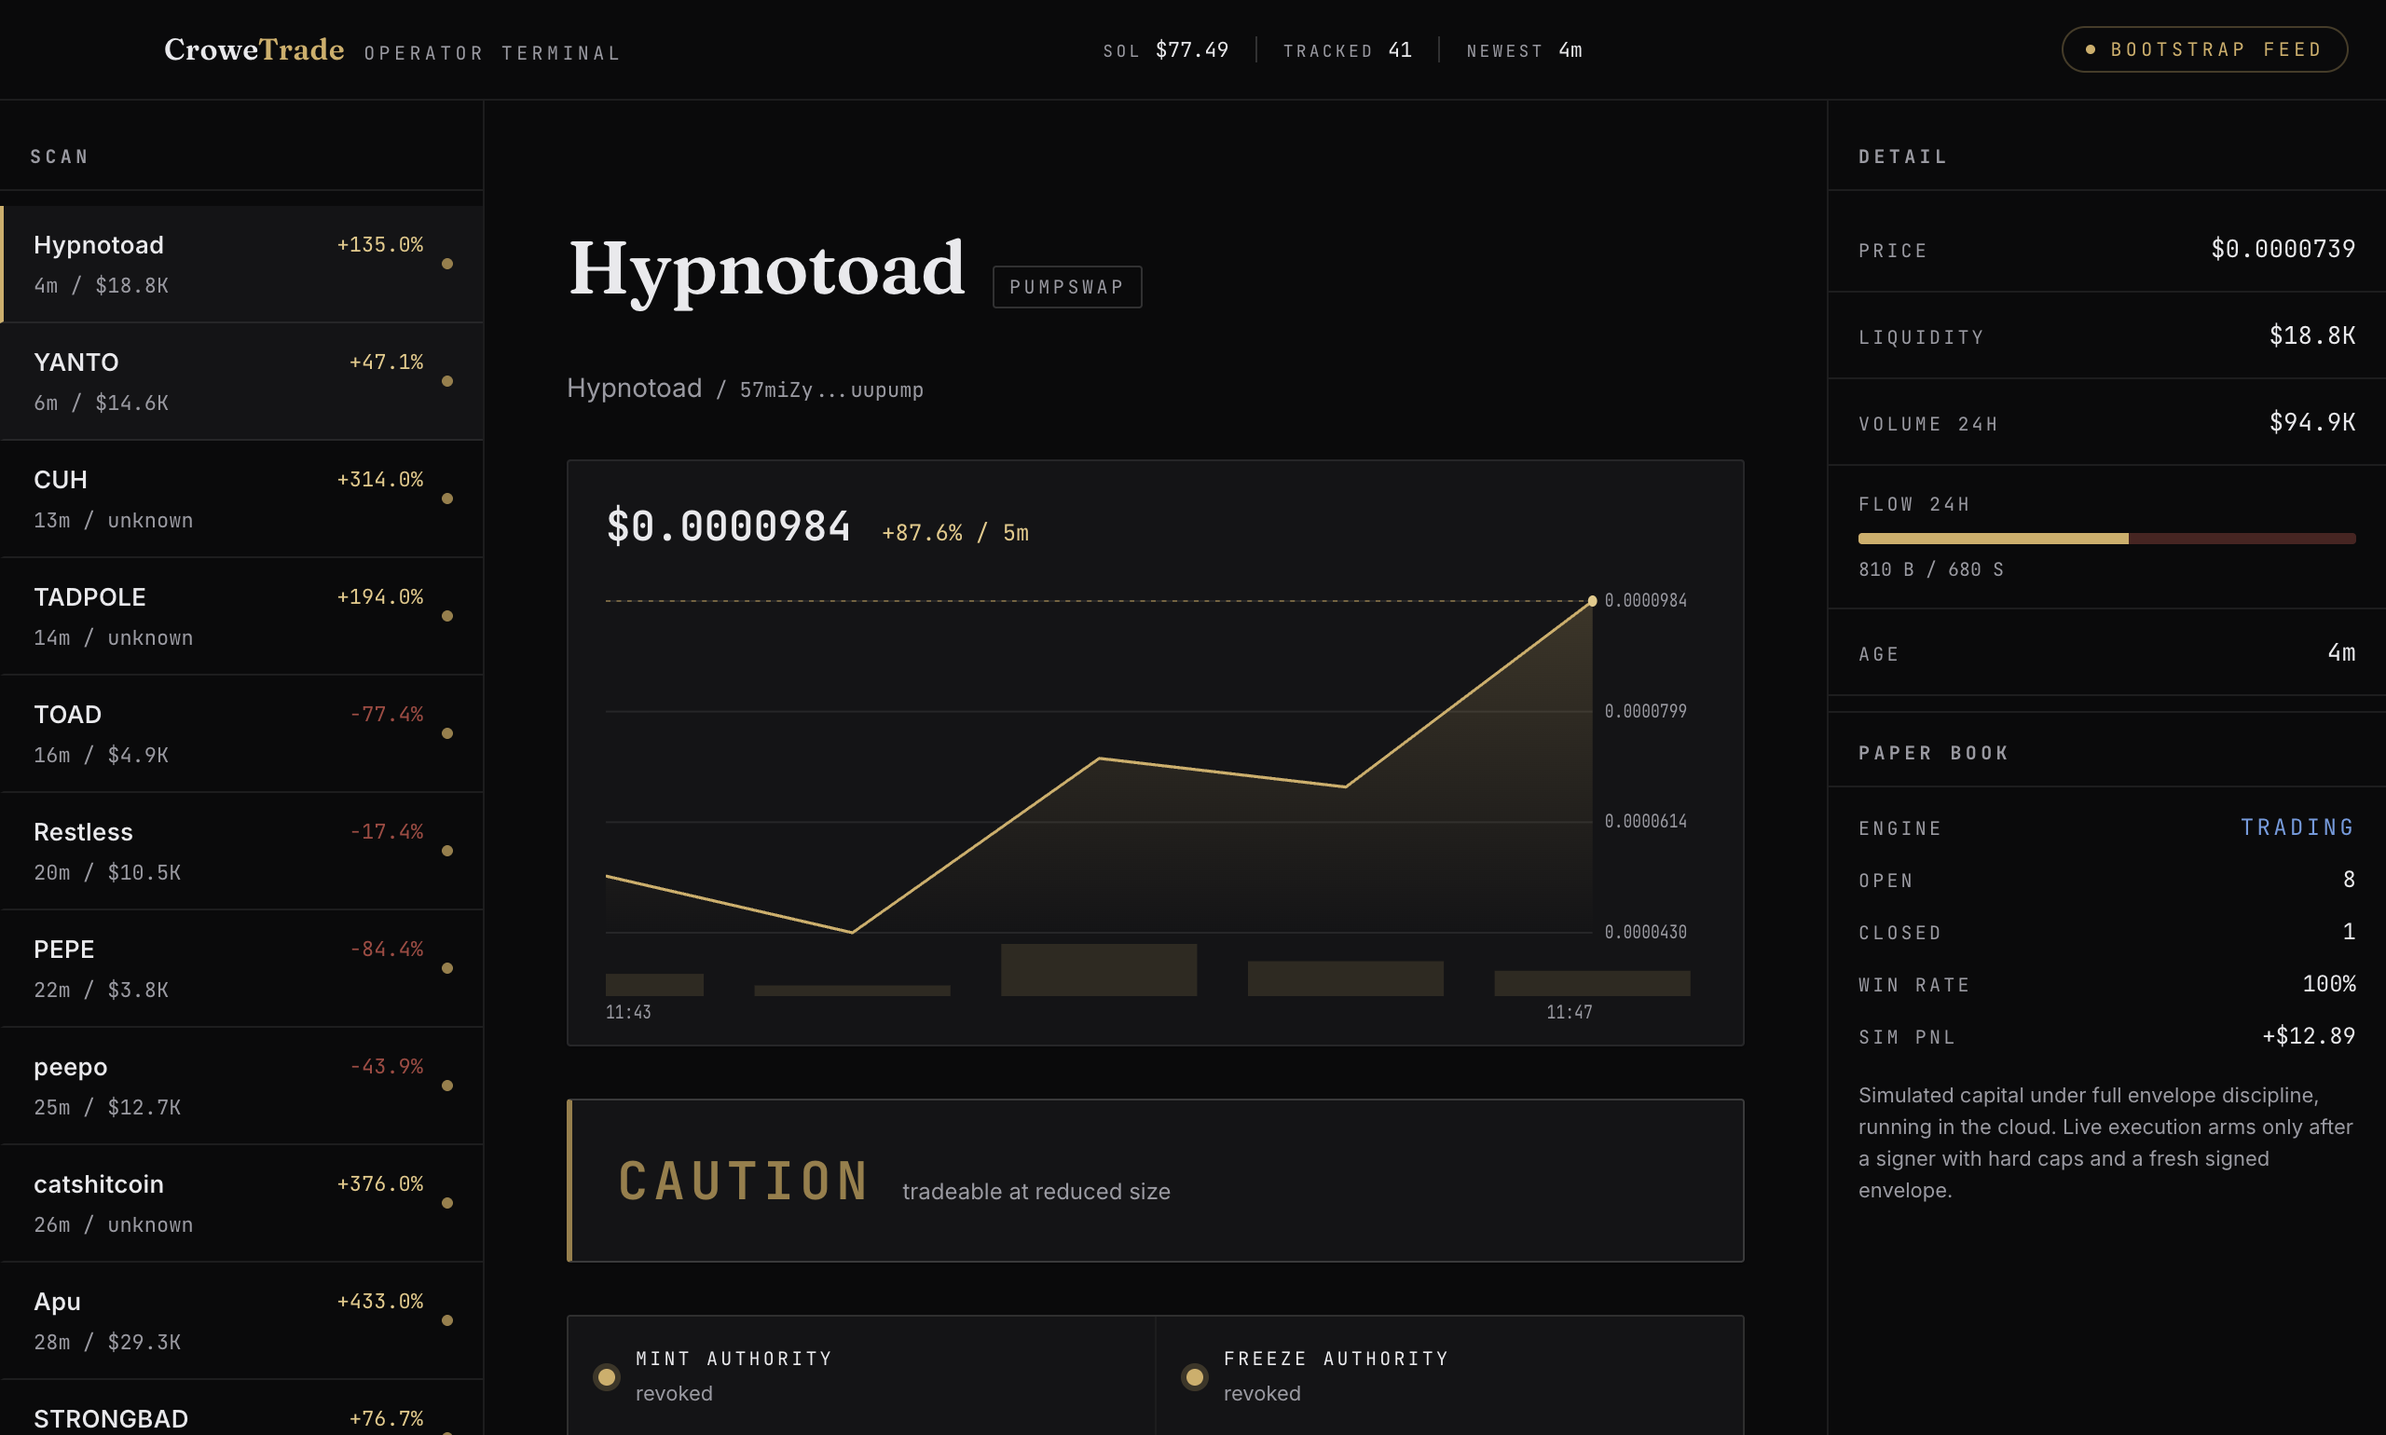
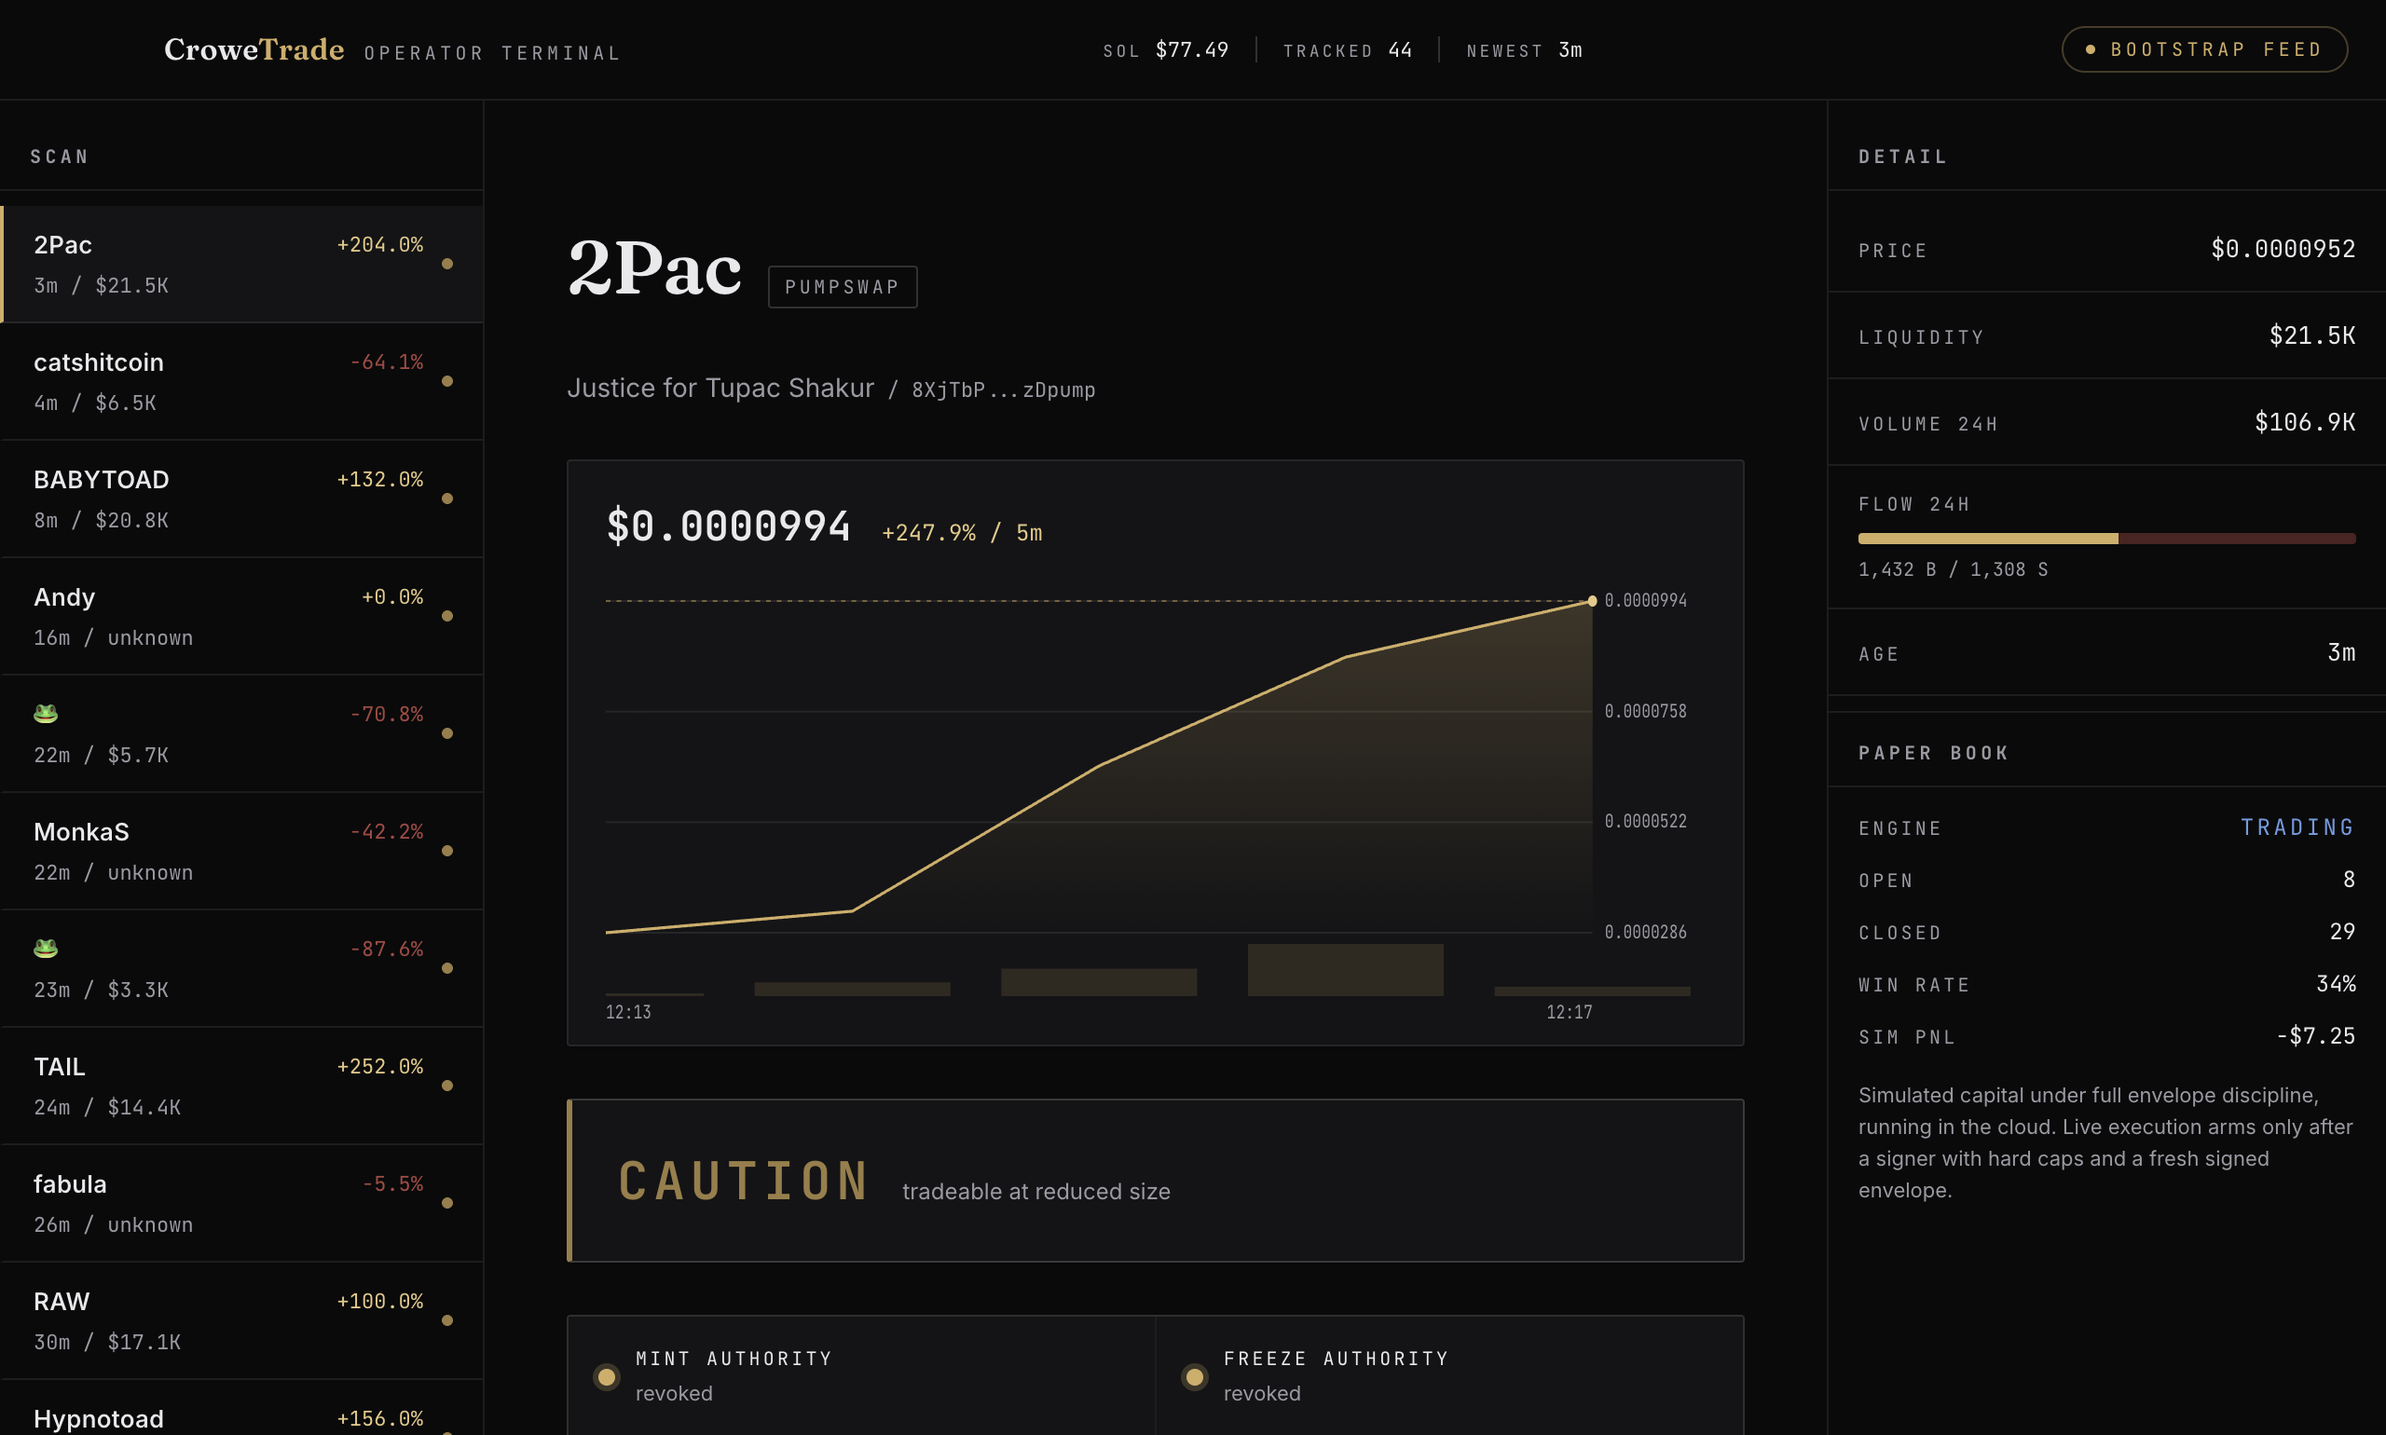
Price paper fills from real Jupiter routes, not an invented slippage model
Measured the model against reality and it was wrong by ~20x: quoting 0.25 SOL
into a held token ($18.8K liquidity) returns 2.10% real price impact where the
model predicted 0.10%. Applied to both entry and exit of every position, that
flatters the record on every fill, which is the one defect a track record
cannot survive.

Entries and exits now price off live Jupiter quotes -- the same routes live
execution will take. Quoting needs no wallet, no funds and no signature, so
the paper phase can be honest at zero risk.

- exits value proceeds from what the route actually returns for our token
  amount, not mark price times quantity; on a thin pool that gap IS the result
- no route means no entry: a token we could not buy is not a position
- a safety-exit with no route marks to zero rather than inventing liquidity
- real price impact and route labels ship to PostHog for TCA
- pre-existing rows tagged priced_by='model' and excluded from headline stats
  rather than deleted; the mistake stays part of the record

Claude-Session: https://claude.ai/code/session_01GLajnjPGngHvCo8vagnZPV

diff --git a/engine/src/ledger.ts b/engine/src/ledger.ts
@@ -18,11 +18,15 @@ import {
   fetchPairsForMints,
   type Candidate,
 } from "../../shared/dexscreener.js"
-import { fetchMintFacts } from "../../shared/solana.js"
+import { fetchMintFacts, type MintFacts } from "../../shared/solana.js"
 import { evaluateGates, combineVerdict, type Verdict } from "../../shared/gates.js"
 import { PAPER_POLICY, policyHash } from "../../shared/policy.js"
-import { decideEntries, decideExits, slippageBps, type OpenPosition } from "./strategy.js"
+import { decideEntries, decideExits, type OpenPosition } from "./strategy.js"
+import { quoteBuy, quoteSell, LAMPORTS_PER_SOL } from "./execution/jupiter.js"
 import { capture } from "./posthog.js"
+
+/** Slippage tolerance requested on every quote, entry and exit. */
+const SLIPPAGE_BPS = 300
 
 interface PositionRow {
   [key: string]: string | number | null
@@ -79,6 +83,15 @@ export class Ledger extends DurableObject<Env> {
           value TEXT NOT NULL
         );
       `)
+      // Rows written before 2026-08-08 were priced by an invented slippage
+      // model later measured wrong by ~20x. They are TAGGED rather than
+      // deleted: the mistake is part of the record, and the stats below simply
+      // stop counting them so the headline number reflects real routes only.
+      try {
+        sql.exec("ALTER TABLE positions ADD COLUMN priced_by TEXT NOT NULL DEFAULT 'model'")
+      } catch {
+        // Column already present; nothing to migrate.
+      }
       this.schemaReady = true
     }
     return sql
@@ -120,25 +133,57 @@ export class Ledger extends DurableObject<Env> {
     }))
   }
 
-  private closePosition(p: OpenPosition, exitPriceUsd: number, reason: string, now: number): void {
-    // Sell-side slippage worsens the exit the same way entry slippage worsened
-    // the entry. Exit liquidity is unknown here, so the model reuses the entry
-    // notional as the denominator proxy; pessimistic is the only safe direction.
-    const slip = slippageBps(p.sizeUsd, p.sizeUsd * 50) / 10_000
-    const effective = exitPriceUsd * (1 - slip)
-    const proceeds = p.tokenAmount * effective
+  /**
+   * Closes at a REAL sell quote when one exists.
+   *
+   * proceedsUsd comes from lamports Jupiter says the route actually returns for
+   * our exact token amount, not from mark price times quantity. Mark price is
+   * what the last trade printed; it is not what we can get out at, and on a
+   * thin pool the gap between the two is the entire result.
+   */
+  private async closePosition(
+    p: OpenPosition,
+    exitPriceUsd: number,
+    reason: string,
+    now: number,
+    solUsd: number,
+  ): Promise<void> {
+    const decimals = Number(this.metaGet(`decimals:${p.mint}`) ?? "6")
+    const baseUnits = BigInt(Math.floor(p.tokenAmount * 10 ** decimals))
+
+    let proceeds: number
+    let impact: number | null = null
+    let route: string | null = null
+
+    const q = baseUnits > 0n ? await quoteSell(p.mint, baseUnits, SLIPPAGE_BPS) : null
+    if (q && solUsd > 0) {
+      proceeds = (Number(q.outAmount) / LAMPORTS_PER_SOL) * solUsd
+      impact = q.priceImpactPct
+      route = q.route
+    } else {
+      // No route: the position is effectively unexitable right now. Marking it
+      // at mark price would invent liquidity that does not exist, so it is
+      // marked to ZERO. That is the honest floor, and it is what a rug looks
+      // like from the inside.
+      proceeds = reason === "safety-exit" ? 0 : p.tokenAmount * exitPriceUsd * 0.5
+    }
+
     const pnlUsd = proceeds - p.sizeUsd
     const pnlPct = (pnlUsd / p.sizeUsd) * 100
+    const effective = p.tokenAmount > 0 ? proceeds / p.tokenAmount : 0
     this.sql().exec(
       `UPDATE positions SET closed_at = ?, exit_price = ?, exit_reason = ?, pnl_usd = ?, pnl_pct = ?
        WHERE id = ?`,
       now, effective, reason, pnlUsd, pnlPct, p.id,
     )
-    this.event("exit", { id: p.id, symbol: p.symbol, reason, pnlUsd, pnlPct })
+    this.event("exit", { id: p.id, symbol: p.symbol, reason, pnlUsd, pnlPct, impact, route })
     capture(this.env, this.ctx, "paper_exit", {
       symbol: p.symbol, mint: p.mint, reason,
       pnl_usd: pnlUsd, pnl_pct: pnlPct, held_minutes: (now - p.openedAt) / 60_000,
       policy_hash: p.policyHash,
+      // Real measured impact, so TCA can compare quoted cost to what the
+      // strategy assumed. This is the number the old model got wrong by 20x.
+      exit_price_impact_pct: impact, exit_route: route, routed: q !== null,
     })
   }
 
@@ -181,13 +226,17 @@ export class Ledger extends DurableObject<Env> {
 
     // One RPC batch resolves authorities for the whole universe this tick.
     const facts = await fetchMintFacts(everything.map((c) => c.mint), signal).catch(
-      () => new Map<string, { mintAuthority: string | null; freezeAuthority: string | null }>(),
+      () => new Map<string, MintFacts>(),
     )
     for (const c of everything) {
       const f = facts.get(c.mint)
       if (f) {
         c.snapshot.mintAuthority = f.mintAuthority
         c.snapshot.freezeAuthority = f.freezeAuthority
+        // Decimals are needed later to convert a held float amount back into
+        // base units for the sell quote, and the mint may be gone from
+        // discovery by then, so persist it at first sight.
+        this.metaSet(`decimals:${c.mint}`, String(f.decimals))
       }
     }
 
@@ -215,13 +264,13 @@ export class Ledger extends DurableObject<Env> {
         // A veto with no fresh price exits at entry price as the least-bad
         // honest option; the event records that the mark was stale.
         const px = cur?.priceUsd ?? p.entryPriceUsd
-        this.closePosition(p, px, "veto", now)
+        await this.closePosition(p, px, "veto", now, solUsd)
         exited += 1
       }
     }
     const stillOpen = this.openPositions()
     for (const d of decideExits(stillOpen, prices, policy, now)) {
-      this.closePosition(d.position, d.exitPriceUsd, d.reason, now)
+      await this.closePosition(d.position, d.exitPriceUsd, d.reason, now, solUsd)
       exited += 1
     }
 
@@ -234,21 +283,38 @@ export class Ledger extends DurableObject<Env> {
       for (const e of entries) {
         const c = e.candidate
         if (c.priceUsd === null || c.liquidityUsd === null) continue
+
+        // Price the entry off a REAL route. No route means no entry: a token we
+        // cannot buy through Jupiter is one we could not have bought at all,
+        // and inventing a fill would put a position in the book that never
+        // could have existed.
+        const decimals = Number(this.metaGet(`decimals:${c.mint}`) ?? "6")
+        const q = await quoteBuy(c.mint, e.sizeSol, SLIPPAGE_BPS)
+        if (!q) {
+          this.event("entry_skipped", { symbol: c.symbol, mint: c.mint, reason: "no route" })
+          continue
+        }
+
         const sizeUsd = e.sizeSol * solUsd
-        const slip = slippageBps(sizeUsd, c.liquidityUsd) / 10_000
-        const entryPrice = c.priceUsd * (1 + slip)
+        const tokenAmount = Number(q.outAmount) / 10 ** decimals
+        if (tokenAmount <= 0) continue
+        const entryPrice = sizeUsd / tokenAmount
         const id = crypto.randomUUID()
         this.sql().exec(
           `INSERT INTO positions
-           (id, mint, symbol, entry_price, size_sol, size_usd, token_amount, opened_at, policy_hash, verdict_entry)
-           VALUES (?, ?, ?, ?, ?, ?, ?, ?, ?, ?)`,
-          id, c.mint, c.symbol, entryPrice, e.sizeSol, sizeUsd, sizeUsd / entryPrice, now, hash, e.verdict,
+           (id, mint, symbol, entry_price, size_sol, size_usd, token_amount, opened_at, policy_hash, verdict_entry, priced_by)
+           VALUES (?, ?, ?, ?, ?, ?, ?, ?, ?, ?, 'quote')`,
+          id, c.mint, c.symbol, entryPrice, e.sizeSol, sizeUsd, tokenAmount, now, hash, e.verdict,
         )
-        this.event("entry", { id, symbol: c.symbol, mint: c.mint, sizeSol: e.sizeSol, entryPrice, verdict: e.verdict })
+        this.event("entry", {
+          id, symbol: c.symbol, mint: c.mint, sizeSol: e.sizeSol, entryPrice,
+          verdict: e.verdict, impact: q.priceImpactPct, route: q.route,
+        })
         capture(this.env, this.ctx, "paper_entry", {
           symbol: c.symbol, mint: c.mint, size_sol: e.sizeSol, entry_price: entryPrice,
           verdict: e.verdict, liquidity_usd: c.liquidityUsd, token_age_minutes: c.createdAt ? (now - c.createdAt) / 60_000 : null,
           policy_hash: hash,
+          entry_price_impact_pct: q.priceImpactPct, entry_route: q.route,
         })
         this.metaSet(`spend:${day}`, String(spentToday + e.sizeSol))
         entered += 1
@@ -268,10 +334,15 @@ export class Ledger extends DurableObject<Env> {
     const closed = sql.exec(
       "SELECT * FROM positions WHERE closed_at IS NOT NULL ORDER BY closed_at DESC LIMIT 50",
     ).toArray()
+    // Headline stats count REAL-ROUTE fills only. The model-priced rows stay
+    // queryable and are reported separately rather than silently dropped.
     const totals = sql.exec<{ n: number; pnl: number | null; wins: number | null }>(
       `SELECT COUNT(*) AS n, SUM(pnl_usd) AS pnl,
               SUM(CASE WHEN pnl_usd > 0 THEN 1 ELSE 0 END) AS wins
-       FROM positions WHERE closed_at IS NOT NULL`,
+       FROM positions WHERE closed_at IS NOT NULL AND priced_by = 'quote'`,
+    ).one()
+    const legacy = sql.exec<{ n: number }>(
+      "SELECT COUNT(*) AS n FROM positions WHERE closed_at IS NOT NULL AND priced_by = 'model'",
     ).one()
     return {
       mode: "paper",
@@ -282,6 +353,8 @@ export class Ledger extends DurableObject<Env> {
         closedCount: totals.n,
         totalPnlUsd: totals.pnl ?? 0,
         winRate: totals.n > 0 ? (totals.wins ?? 0) / totals.n : null,
+        /** Excluded from the headline: priced by the retired slippage model. */
+        excludedModelPriced: legacy.n,
       },
     }
   }

diff --git a/engine/src/execution/jupiter.ts b/engine/src/execution/jupiter.ts
@@ -1,0 +1,81 @@
+/**
+ * Real route quotes from Jupiter.
+ *
+ * This replaces the invented slippage model in strategy.ts, which was measured
+ * wrong by ~20x on 2026-08-08: quoting 0.25 SOL into a held token ($18.8K
+ * liquidity) returned 2.10% real price impact where the model predicted 0.10%.
+ * A paper record priced by that model flatters itself on every single fill,
+ * entry and exit, which is the one failure mode that makes a track record
+ * worthless.
+ *
+ * These are the SAME routes live execution will take. Quoting needs no wallet,
+ * no funds, and no signature, so the paper phase can price itself honestly at
+ * zero risk. When execution arms, the quote here becomes the transaction there.
+ */
+
+const JUPITER = "https://lite-api.jup.ag/swap/v1/quote"
+export const WSOL = "So11111111111111111111111111111111111111112"
+const LAMPORTS_PER_SOL = 1_000_000_000
+
+export interface Quote {
+  /** Output in the destination token's base units. */
+  outAmount: bigint
+  /** Fractional price impact, e.g. 0.021 for 2.1%. */
+  priceImpactPct: number
+  /** Venue labels along the route, for the record. */
+  route: string
+}
+
+interface JupResponse {
+  outAmount?: string
+  priceImpactPct?: string
+  routePlan?: { swapInfo?: { label?: string } }[]
+  error?: string
+}
+
+async function quote(
+  inputMint: string,
+  outputMint: string,
+  amount: bigint,
+  slippageBps: number,
+): Promise<Quote | null> {
+  const url =
+    `${JUPITER}?inputMint=${inputMint}&outputMint=${outputMint}` +
+    `&amount=${amount}&slippageBps=${slippageBps}`
+  try {
+    const res = await fetch(url)
+    if (!res.ok) return null
+    const body = (await res.json()) as JupResponse
+    // Jupiter answers 200 with an error body when no route exists, which for a
+    // freshly launched token is normal rather than exceptional.
+    if (body.error || !body.outAmount) return null
+    return {
+      outAmount: BigInt(body.outAmount),
+      priceImpactPct: Number(body.priceImpactPct ?? 0),
+      route: (body.routePlan ?? [])
+        .map((r) => r.swapInfo?.label ?? "?")
+        .join(" > "),
+    }
+  } catch {
+    // Network failure must not be mistaken for "no route": callers treat null
+    // as "cannot price this right now" and skip, never as "price is zero".
+    return null
+  }
+}
+
+/** SOL in, token out. Returns real token base units received. */
+export function quoteBuy(mint: string, sol: number, slippageBps: number): Promise<Quote | null> {
+  const lamports = BigInt(Math.round(sol * LAMPORTS_PER_SOL))
+  return quote(WSOL, mint, lamports, slippageBps)
+}
+
+/** Token in, SOL out. Returns real lamports received. */
+export function quoteSell(
+  mint: string,
+  tokenBaseUnits: bigint,
+  slippageBps: number,
+): Promise<Quote | null> {
+  return quote(mint, WSOL, tokenBaseUnits, slippageBps)
+}
+
+export { LAMPORTS_PER_SOL }
